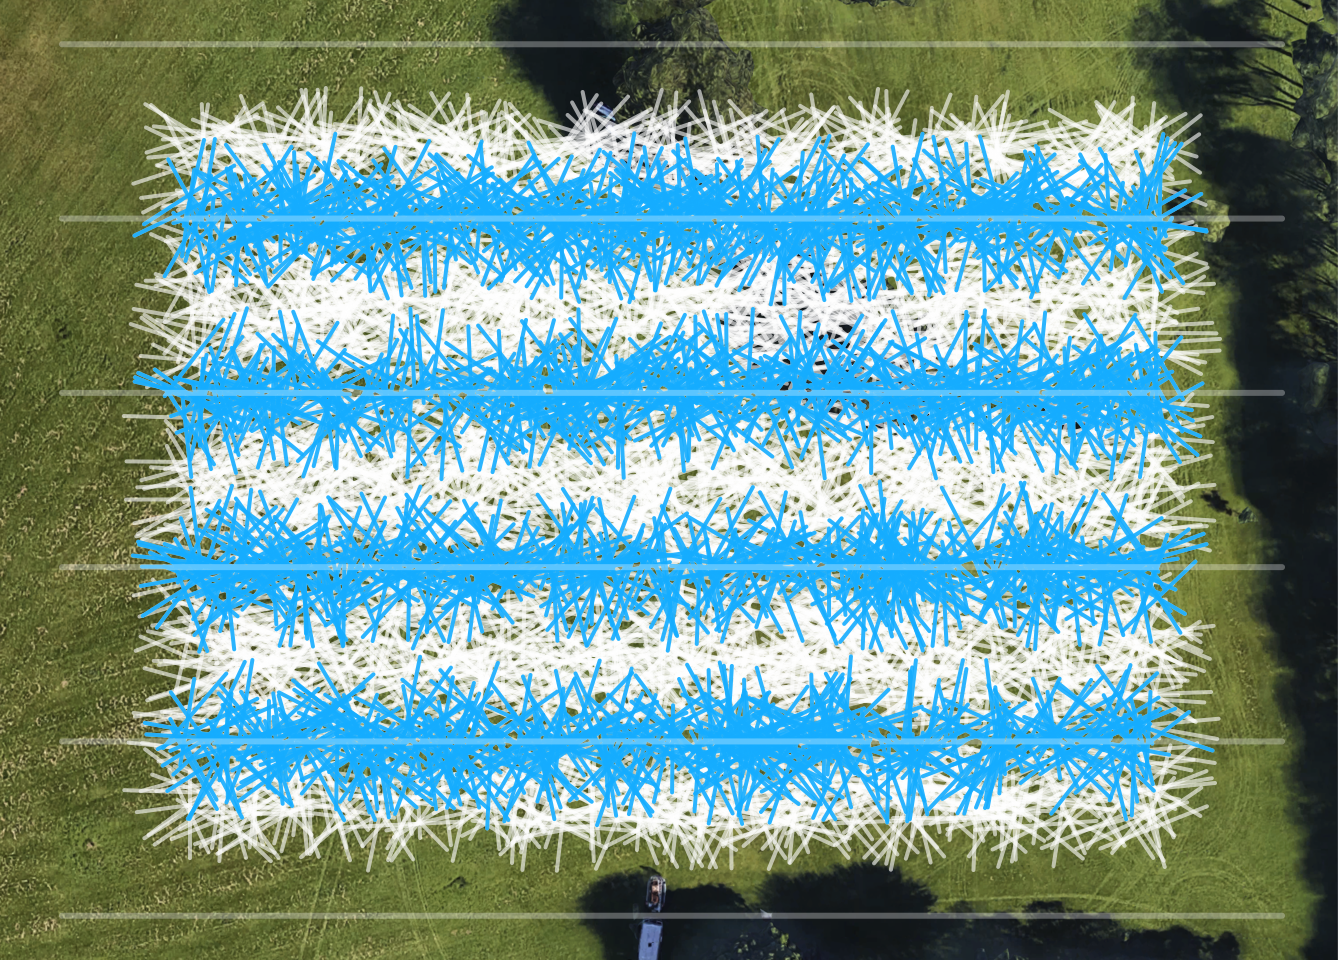
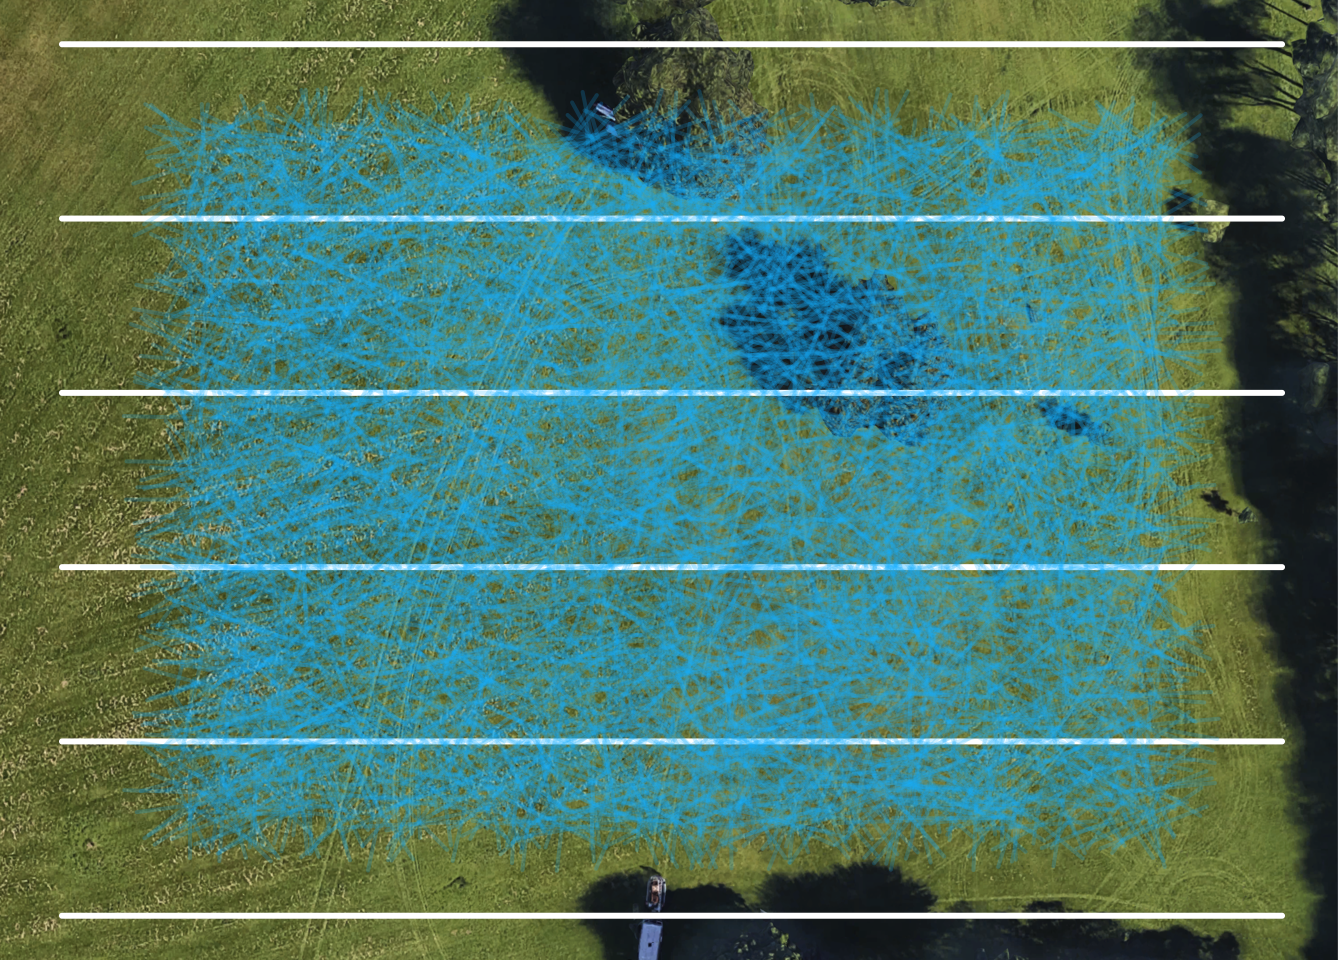
ww

diff --git a/public/2019/03/14/estimating-pi-using-a-lightsaber-battle/index.html b/public/2019/03/14/estimating-pi-using-a-lightsaber-battle/index.html
@@ -71,19 +71,19 @@
     <div class="article-content">
       <div id="happy-pi-day-everyone" class="section level1">
 <h1>Happy Pi Day everyone!!</h1>
-<div id="today-is-3-14-and-those-numbers-are-the-first-three-digits-of-pi.-to-celebrate-i-estimated-pi-using-a-lightsaber-battle.-i-first-build-an-army-of-saber-wielding-critters-in-la-fountaine-park-then-i-cut-6-transects-across-the-battlefield-and-count-the-number-of-contacts-i-make-with-critter-sabers-along-the-way.-after-the-battle-i-take-a-ratio-of-hits-vs.misses-to-estimate-pi." class="section level3">
-<h3>Today is 3-14, and those numbers are the first three digits of Pi. To celebrate, I estimated Pi using a lightsaber battle. I first build an army of saber-wielding critters in La Fountaine park, then I cut 6 transects across the battlefield and count the number of contacts I make with critter-sabers along the way. After the battle, I take a ratio of hits vs. misses to estimate Pi.</h3>
+<div id="today-is-3-14-and-those-digits-are-the-first-three-digits-of-pi.-to-celebrate-i-estimated-pi-using-a-lightsaber-battle.-i-first-build-an-army-of-saber-wielding-critters-in-la-fountaine-park-then-i-cut-6-transects-across-the-battlefield-and-count-the-number-of-contacts-i-made-with-critter-sabers-along-the-way.-after-the-battle-i-take-a-ratio-of-hits-vs.misses-to-estimate-pi." class="section level3">
+<h3>Today is 3-14, and those digits are the first three digits of Pi. To celebrate, I estimated Pi using a lightsaber battle. I first build an army of saber-wielding critters in La Fountaine park, then I cut 6 transects across the battlefield and count the number of contacts I made with critter-sabers along the way. After the battle, I take a ratio of hits vs. misses to estimate Pi.</h3>
 </div>
-<div id="we-start-in-a-futuristic-world-where-urban-wildlife-have-aquired-light-sabers-and-taken-over-montreal." class="section level2">
-<h2>We start in a futuristic world where urban wildlife have aquired light sabers and taken over Montreal.</h2>
+<div id="we-start-in-a-futuristic-world-where-urban-wildlife-have-aquired-lightsabers-and-taken-over-montreal." class="section level2">
+<h2>We start in a futuristic world where urban wildlife have aquired lightsabers and taken over Montreal.</h2>
 <div class="figure"><span id="fig:unnamed-chunk-2"></span>
 <img src="/post/2019-03-14-estimating-pi-using-a-lightsaber-battle_files/figure-html/unnamed-chunk-2-1.png" alt="Future squirels battle for food scraps near homeless man's dome tent." width="100%" />
 <p class="caption">
 Figure 1: Future squirels battle for food scraps near homeless man’s dome tent.
 </p>
 </div>
-<div id="to-battle-these-savage-beasts-we-must-learn-to-make-our-own-light-saber." class="section level3">
-<h3>To battle these savage beasts, we must learn to make our own light saber.</h3>
+<div id="to-battle-these-savage-beasts-we-must-learn-to-make-our-own-lightsaber." class="section level3">
+<h3>To battle these savage beasts, we must learn to make our own lightsaber.</h3>
 <pre class="r"><code>set.seed(1.1)
 light_saber_length &lt;- 20
 number_of_animal_sabers_in_a_park &lt;- 5000
@@ -186,16 +186,22 @@ space and the angles of all the sabers are uniformly distributed.</p>
 Figure 5: An army of lightsaber-wielding critters in the middle of La Fountaine park. This is the position of each critter’s lightsaber at the moment we pass them on our transect.
 </p>
 </div>
+<div class="figure"><span id="fig:unnamed-chunk-13"></span>
+<img src="/post/2019-03-14-estimating-pi-using-a-lightsaber-battle_files/figure-html/unnamed-chunk-13-1.png" alt="We better get in there! Things aren't looking good." width="100%" />
+<p class="caption">
+Figure 6: We better get in there! Things aren’t looking good.
+</p>
+</div>
 <pre class="r"><code>surface_line &lt;- function(line_height = 0){
   matrix(c(0,100,line_height,line_height), 2, 2, byrow=FALSE)
   }</code></pre>
 <pre><code>##      [,1] [,2]
 ## [1,]    0   20
 ## [2,]  100   20</code></pre>
-<div class="figure"><span id="fig:unnamed-chunk-14"></span>
-<img src="/post/2019-03-14-estimating-pi-using-a-lightsaber-battle_files/figure-html/unnamed-chunk-14-1.png" alt="My transect through the army of critters." width="672" />
+<div class="figure"><span id="fig:unnamed-chunk-15"></span>
+<img src="/post/2019-03-14-estimating-pi-using-a-lightsaber-battle_files/figure-html/unnamed-chunk-15-1.png" alt="My transect through the army of critters." width="672" />
 <p class="caption">
-Figure 6: My transect through the army of critters.
+Figure 7: My transect through the army of critters.
 </p>
 </div>
 <pre class="r"><code>one_saber &lt;- critter_saber()
@@ -203,16 +209,16 @@ one_surface_line &lt;- surface_line(30)
 line.line.intersection(one_saber[1,], one_saber[2,], one_surface_line[1,], 
                        one_surface_line[2,], interior.only = TRUE)</code></pre>
 <pre><code>## [1] 75.73794 30.00000</code></pre>
-<div class="figure"><span id="fig:unnamed-chunk-16"></span>
-<img src="/post/2019-03-14-estimating-pi-using-a-lightsaber-battle_files/figure-html/unnamed-chunk-16-1.png" alt="Build a mechanism to identify when a lightsaber has crossed my transect line." width="672" />
+<div class="figure"><span id="fig:unnamed-chunk-17"></span>
+<img src="/post/2019-03-14-estimating-pi-using-a-lightsaber-battle_files/figure-html/unnamed-chunk-17-1.png" alt="Build a mechanism to identify when a lightsaber has crossed my transect line." width="672" />
 <p class="caption">
-Figure 7: Build a mechanism to identify when a lightsaber has crossed my transect line.
+Figure 8: Build a mechanism to identify when a lightsaber has crossed my transect line.
 </p>
 </div>
-<div class="figure"><span id="fig:unnamed-chunk-17"></span>
-<img src="/post/2019-03-14-estimating-pi-using-a-lightsaber-battle_files/figure-html/unnamed-chunk-17-1.png" alt="Team prepares for transects" width="100%" />
+<div class="figure"><span id="fig:unnamed-chunk-18"></span>
+<img src="/post/2019-03-14-estimating-pi-using-a-lightsaber-battle_files/figure-html/unnamed-chunk-18-1.png" alt="Team prepares for transects" width="100%" />
 <p class="caption">
-Figure 8: Team prepares for transects
+Figure 9: Team prepares for transects
 </p>
 </div>
 <p>Prepare a list of all transects and all critter sabers so we can calculate contacts between them</p>
@@ -227,13 +233,13 @@ line_placement &lt;- seq(0,100, by=20)
 for(i in 1:6){
   list_of_surface_lines[,,i] &lt;- surface_line(line_placement[i])
 }</code></pre>
-<div class="figure"><span id="fig:unnamed-chunk-19"></span>
-<img src="/post/2019-03-14-estimating-pi-using-a-lightsaber-battle_files/figure-html/unnamed-chunk-19-1.png" alt="After the angle is set, translate the lightsaber to a random location on the battlefield." width="672" />
+<div class="figure"><span id="fig:unnamed-chunk-20"></span>
+<img src="/post/2019-03-14-estimating-pi-using-a-lightsaber-battle_files/figure-html/unnamed-chunk-20-1.png" alt="The battle is on. We charge across the battlefield and hit every critter saber along our transect." width="672" />
 <p class="caption">
-Figure 9: After the angle is set, translate the lightsaber to a random location on the battlefield.
+Figure 10: The battle is on. We charge across the battlefield and hit every critter saber along our transect.
 </p>
 </div>
-<p>Calculate which sabers crossed my transect.</p>
+<p>Calculate which sabers crossed our path.</p>
 <pre class="r"><code>crosses &lt;- matrix(NA, 1, 10, byrow=TRUE)
 
 for(i in 1:dim(list_of_matches)[3]){
@@ -268,15 +274,15 @@ head(crosses)</code></pre>
 ## [4,]           20          100           20
 ## [5,]           20          100           20
 ## [6,]           20          100           20</code></pre>
-<div class="figure"><span id="fig:unnamed-chunk-21"></span>
-<img src="/post/2019-03-14-estimating-pi-using-a-lightsaber-battle_files/figure-html/unnamed-chunk-21-1.png" alt="All the lightsabers we struck on my transect." width="672" />
+<div class="figure"><span id="fig:unnamed-chunk-22"></span>
+<img src="/post/2019-03-14-estimating-pi-using-a-lightsaber-battle_files/figure-html/unnamed-chunk-22-1.png" alt="All the lightsabers we struck on our transects." width="672" />
 <p class="caption">
-Figure 10: All the lightsabers we struck on my transect.
+Figure 11: All the lightsabers we struck on our transects.
 </p>
 </div>
 </div>
-<div id="we-take-the-ratio-of-the-lightsabers-we-made-contact-with-againt-the-ones-we-missed-and-we-get-a-great-approximation-of-pi" class="section level3">
-<h3>We take the ratio of the lightsabers we made contact with againt the ones we missed and we get a great approximation of Pi!</h3>
+<div id="we-take-the-ratio-of-the-lightsabers-we-made-contact-with-againt-the-ones-we-missed-scaled-by-distance-and-we-get-a-great-approximation-of-pi" class="section level3">
+<h3>We take the ratio of the lightsabers we made contact with againt the ones we missed, scaled by distance, and we get a great approximation of Pi!</h3>
 <pre class="r"><code>pi_estimate &lt;- (2* light_saber_length * number_of_animal_sabers_in_a_park)/(distance_between_transects * length(crosses[,1]))
 options(digits=20)
 pi_estimate</code></pre>

diff --git a/content/post/2019-03-14-estimating-pi-using-a-lightsaber-battle.html b/content/post/2019-03-14-estimating-pi-using-a-lightsaber-battle.html
@@ -13,19 +13,19 @@ categories: pi day games
 
 <div id="happy-pi-day-everyone" class="section level1">
 <h1>Happy Pi Day everyone!!</h1>
-<div id="today-is-3-14-and-those-numbers-are-the-first-three-digits-of-pi.-to-celebrate-i-estimated-pi-using-a-lightsaber-battle.-i-first-build-an-army-of-saber-wielding-critters-in-la-fountaine-park-then-i-cut-6-transects-across-the-battlefield-and-count-the-number-of-contacts-i-make-with-critter-sabers-along-the-way.-after-the-battle-i-take-a-ratio-of-hits-vs.misses-to-estimate-pi." class="section level3">
-<h3>Today is 3-14, and those numbers are the first three digits of Pi. To celebrate, I estimated Pi using a lightsaber battle. I first build an army of saber-wielding critters in La Fountaine park, then I cut 6 transects across the battlefield and count the number of contacts I make with critter-sabers along the way. After the battle, I take a ratio of hits vs. misses to estimate Pi.</h3>
+<div id="today-is-3-14-and-those-digits-are-the-first-three-digits-of-pi.-to-celebrate-i-estimated-pi-using-a-lightsaber-battle.-i-first-build-an-army-of-saber-wielding-critters-in-la-fountaine-park-then-i-cut-6-transects-across-the-battlefield-and-count-the-number-of-contacts-i-made-with-critter-sabers-along-the-way.-after-the-battle-i-take-a-ratio-of-hits-vs.misses-to-estimate-pi." class="section level3">
+<h3>Today is 3-14, and those digits are the first three digits of Pi. To celebrate, I estimated Pi using a lightsaber battle. I first build an army of saber-wielding critters in La Fountaine park, then I cut 6 transects across the battlefield and count the number of contacts I made with critter-sabers along the way. After the battle, I take a ratio of hits vs. misses to estimate Pi.</h3>
 </div>
-<div id="we-start-in-a-futuristic-world-where-urban-wildlife-have-aquired-light-sabers-and-taken-over-montreal." class="section level2">
-<h2>We start in a futuristic world where urban wildlife have aquired light sabers and taken over Montreal.</h2>
+<div id="we-start-in-a-futuristic-world-where-urban-wildlife-have-aquired-lightsabers-and-taken-over-montreal." class="section level2">
+<h2>We start in a futuristic world where urban wildlife have aquired lightsabers and taken over Montreal.</h2>
 <div class="figure"><span id="fig:unnamed-chunk-2"></span>
 <img src="/post/2019-03-14-estimating-pi-using-a-lightsaber-battle_files/figure-html/unnamed-chunk-2-1.png" alt="Future squirels battle for food scraps near homeless man's dome tent." width="100%" />
 <p class="caption">
 Figure 1: Future squirels battle for food scraps near homeless man’s dome tent.
 </p>
 </div>
-<div id="to-battle-these-savage-beasts-we-must-learn-to-make-our-own-light-saber." class="section level3">
-<h3>To battle these savage beasts, we must learn to make our own light saber.</h3>
+<div id="to-battle-these-savage-beasts-we-must-learn-to-make-our-own-lightsaber." class="section level3">
+<h3>To battle these savage beasts, we must learn to make our own lightsaber.</h3>
 <pre class="r"><code>set.seed(1.1)
 light_saber_length &lt;- 20
 number_of_animal_sabers_in_a_park &lt;- 5000
@@ -128,16 +128,22 @@ space and the angles of all the sabers are uniformly distributed.</p>
 Figure 5: An army of lightsaber-wielding critters in the middle of La Fountaine park. This is the position of each critter’s lightsaber at the moment we pass them on our transect.
 </p>
 </div>
+<div class="figure"><span id="fig:unnamed-chunk-13"></span>
+<img src="/post/2019-03-14-estimating-pi-using-a-lightsaber-battle_files/figure-html/unnamed-chunk-13-1.png" alt="We better get in there! Things aren't looking good." width="100%" />
+<p class="caption">
+Figure 6: We better get in there! Things aren’t looking good.
+</p>
+</div>
 <pre class="r"><code>surface_line &lt;- function(line_height = 0){
   matrix(c(0,100,line_height,line_height), 2, 2, byrow=FALSE)
   }</code></pre>
 <pre><code>##      [,1] [,2]
 ## [1,]    0   20
 ## [2,]  100   20</code></pre>
-<div class="figure"><span id="fig:unnamed-chunk-14"></span>
-<img src="/post/2019-03-14-estimating-pi-using-a-lightsaber-battle_files/figure-html/unnamed-chunk-14-1.png" alt="My transect through the army of critters." width="672" />
+<div class="figure"><span id="fig:unnamed-chunk-15"></span>
+<img src="/post/2019-03-14-estimating-pi-using-a-lightsaber-battle_files/figure-html/unnamed-chunk-15-1.png" alt="My transect through the army of critters." width="672" />
 <p class="caption">
-Figure 6: My transect through the army of critters.
+Figure 7: My transect through the army of critters.
 </p>
 </div>
 <pre class="r"><code>one_saber &lt;- critter_saber()
@@ -145,16 +151,16 @@ one_surface_line &lt;- surface_line(30)
 line.line.intersection(one_saber[1,], one_saber[2,], one_surface_line[1,], 
                        one_surface_line[2,], interior.only = TRUE)</code></pre>
 <pre><code>## [1] 75.73794 30.00000</code></pre>
-<div class="figure"><span id="fig:unnamed-chunk-16"></span>
-<img src="/post/2019-03-14-estimating-pi-using-a-lightsaber-battle_files/figure-html/unnamed-chunk-16-1.png" alt="Build a mechanism to identify when a lightsaber has crossed my transect line." width="672" />
+<div class="figure"><span id="fig:unnamed-chunk-17"></span>
+<img src="/post/2019-03-14-estimating-pi-using-a-lightsaber-battle_files/figure-html/unnamed-chunk-17-1.png" alt="Build a mechanism to identify when a lightsaber has crossed my transect line." width="672" />
 <p class="caption">
-Figure 7: Build a mechanism to identify when a lightsaber has crossed my transect line.
+Figure 8: Build a mechanism to identify when a lightsaber has crossed my transect line.
 </p>
 </div>
-<div class="figure"><span id="fig:unnamed-chunk-17"></span>
-<img src="/post/2019-03-14-estimating-pi-using-a-lightsaber-battle_files/figure-html/unnamed-chunk-17-1.png" alt="Team prepares for transects" width="100%" />
+<div class="figure"><span id="fig:unnamed-chunk-18"></span>
+<img src="/post/2019-03-14-estimating-pi-using-a-lightsaber-battle_files/figure-html/unnamed-chunk-18-1.png" alt="Team prepares for transects" width="100%" />
 <p class="caption">
-Figure 8: Team prepares for transects
+Figure 9: Team prepares for transects
 </p>
 </div>
 <p>Prepare a list of all transects and all critter sabers so we can calculate contacts between them</p>
@@ -169,13 +175,13 @@ line_placement &lt;- seq(0,100, by=20)
 for(i in 1:6){
   list_of_surface_lines[,,i] &lt;- surface_line(line_placement[i])
 }</code></pre>
-<div class="figure"><span id="fig:unnamed-chunk-19"></span>
-<img src="/post/2019-03-14-estimating-pi-using-a-lightsaber-battle_files/figure-html/unnamed-chunk-19-1.png" alt="After the angle is set, translate the lightsaber to a random location on the battlefield." width="672" />
+<div class="figure"><span id="fig:unnamed-chunk-20"></span>
+<img src="/post/2019-03-14-estimating-pi-using-a-lightsaber-battle_files/figure-html/unnamed-chunk-20-1.png" alt="The battle is on. We charge across the battlefield and hit every critter saber along our transect." width="672" />
 <p class="caption">
-Figure 9: After the angle is set, translate the lightsaber to a random location on the battlefield.
+Figure 10: The battle is on. We charge across the battlefield and hit every critter saber along our transect.
 </p>
 </div>
-<p>Calculate which sabers crossed my transect.</p>
+<p>Calculate which sabers crossed our path.</p>
 <pre class="r"><code>crosses &lt;- matrix(NA, 1, 10, byrow=TRUE)
 
 for(i in 1:dim(list_of_matches)[3]){
@@ -210,15 +216,15 @@ head(crosses)</code></pre>
 ## [4,]           20          100           20
 ## [5,]           20          100           20
 ## [6,]           20          100           20</code></pre>
-<div class="figure"><span id="fig:unnamed-chunk-21"></span>
-<img src="/post/2019-03-14-estimating-pi-using-a-lightsaber-battle_files/figure-html/unnamed-chunk-21-1.png" alt="All the lightsabers we struck on my transect." width="672" />
+<div class="figure"><span id="fig:unnamed-chunk-22"></span>
+<img src="/post/2019-03-14-estimating-pi-using-a-lightsaber-battle_files/figure-html/unnamed-chunk-22-1.png" alt="All the lightsabers we struck on our transects." width="672" />
 <p class="caption">
-Figure 10: All the lightsabers we struck on my transect.
+Figure 11: All the lightsabers we struck on our transects.
 </p>
 </div>
 </div>
-<div id="we-take-the-ratio-of-the-lightsabers-we-made-contact-with-againt-the-ones-we-missed-and-we-get-a-great-approximation-of-pi" class="section level3">
-<h3>We take the ratio of the lightsabers we made contact with againt the ones we missed and we get a great approximation of Pi!</h3>
+<div id="we-take-the-ratio-of-the-lightsabers-we-made-contact-with-againt-the-ones-we-missed-scaled-by-distance-and-we-get-a-great-approximation-of-pi" class="section level3">
+<h3>We take the ratio of the lightsabers we made contact with againt the ones we missed, scaled by distance, and we get a great approximation of Pi!</h3>
 <pre class="r"><code>pi_estimate &lt;- (2* light_saber_length * number_of_animal_sabers_in_a_park)/(distance_between_transects * length(crosses[,1]))
 options(digits=20)
 pi_estimate</code></pre>
